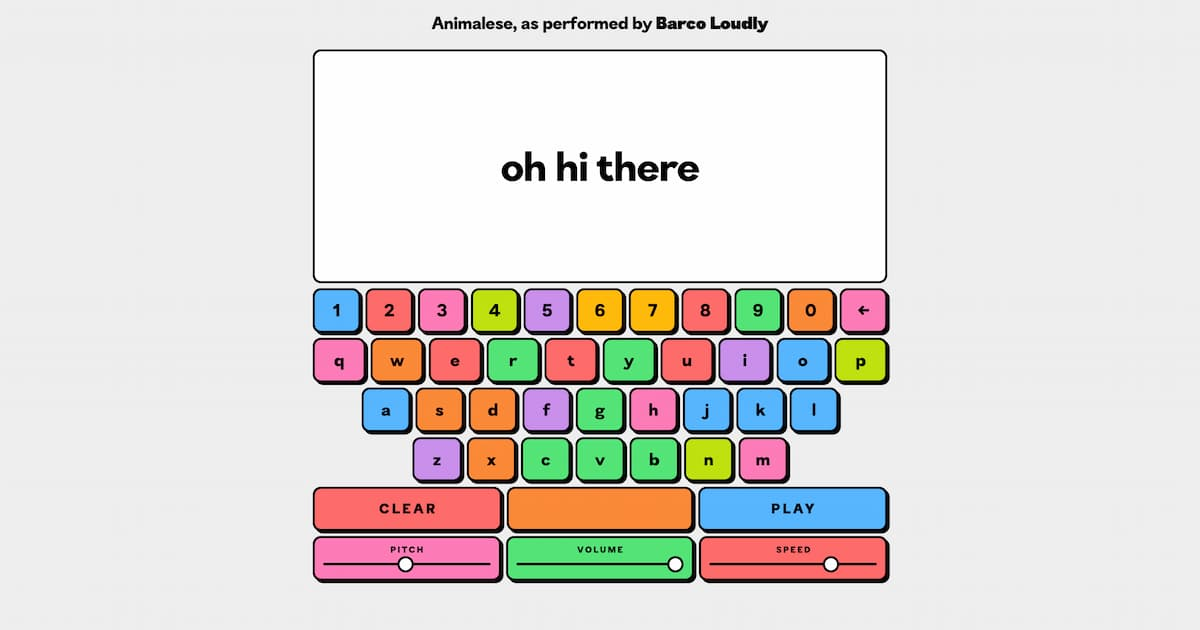
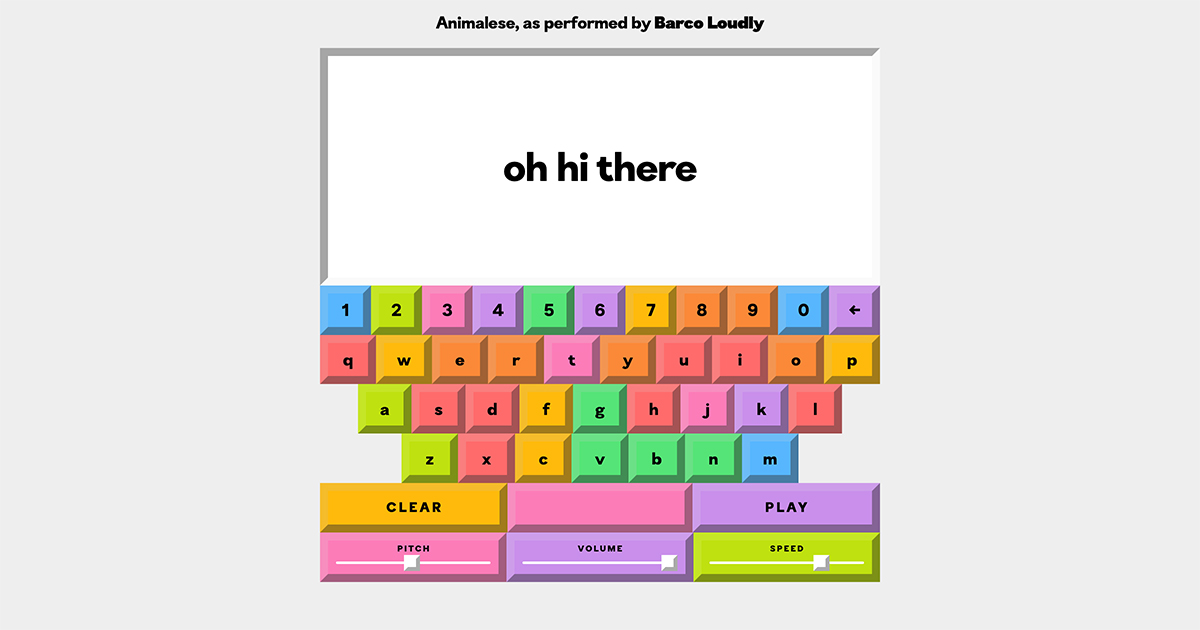
small visual refresh

Changed region(s): [[0.2467, 0.0302, 0.74, 0.9349], [0.4008, 0.2413, 0.5858, 0.3016]]

diff --git a/style.css b/style.css
@@ -43,7 +43,6 @@ button {
 	display: grid;
 	grid-template-rows: minmax(0, 1fr) minmax(0, 1.25fr);
 	padding: 60px 10px;
-	gap: 6px;
 	max-width: 720px;
 	max-height: 800px;
 }
@@ -70,8 +69,7 @@ button {
 
 /* Screen */
 .screen {
-	border: 3px solid black;
-	border-radius: 10px;
+	border: 10px inset #fafafa;
 	background-color: white;
 	position: relative;
 	display: flex;
@@ -103,9 +101,7 @@ button {
 	align-items: center;
 	justify-content: center;
 	padding: 4px 10px 0 10px;
-	border: 3px solid black;
-	border-radius: 10px;
-	box-shadow: 3px 3px black;
+	border: 10px outset color-mix(in hsl, white 10%, var(--primary) 100%);
 	background-color: var(--primary);
 	min-height: 50px;
 }
@@ -122,7 +118,7 @@ button {
 .controls-group input {
 	cursor: pointer;
 	-webkit-appearance: none;
-	background: black;
+	background: white;
 	border-radius: 20px;
 	outline: none;
 	height: 3px;
@@ -133,16 +129,14 @@ button {
 	appearance: none;
 	width: 20px;
 	height: 20px;
-	border-radius: 50%;
 	background: white;
-	border: 3px solid black;
+	border: 5px outset white;
 	cursor: pointer;
 }
 .controls-group input::-moz-range-thumb {
 	width: 20px;
 	height: 20px;
-	border-radius: 50%;
-	border: 3px solid black;
+	border: 5px outset white;
 	background: white;
 	cursor: pointer;
 }
@@ -153,7 +147,6 @@ button {
 	width: 100%;
 	display: flex;
 	flex-direction: column;
-	gap: 6px;
 	text-transform: lowercase;
 }
 .keyboard-row {
@@ -161,7 +154,6 @@ button {
 	flex-basis: 40px;
 	min-height: 40px;
 	display: flex;
-	gap: 6px;
 }
 .keyboard-row button {
 	flex-grow: 1;
@@ -171,9 +163,7 @@ button {
 	font-size: clamp(10px, 3vw, 20px);
 	border: unset;
 	background-color: var(--primary);
-	border: 3px solid black;
-	border-radius: 10px;
-	box-shadow: 3px 3px black;
+	border: 10px outset color-mix(in hsl, white 10%, var(--primary) 100%);
 	color: black;
 	cursor: pointer;
 	line-height: 1em;
@@ -182,15 +172,15 @@ button {
 	text-transform: inherit;
 }
 .keyboard-row button[data-active="1"] {
-	background-color: white;
-	transform: scale(0.95);
+	filter: brightness(90%);
+	border: 10px inset color-mix(in hsl, white 10%, var(--primary) 100%);
 }
 .keyboard-row button:hover {
-	background-color: white;
-	transform: scale(1.02);
+	filter: brightness(110%);
 }
 .keyboard-row button:active {
-	transform: scale(0.95);
+	filter: brightness(90%);
+	border: 10px inset color-mix(in hsl, white 10%, var(--primary) 100%);
 }
 .keyboard-row-spacer {
 	flex-grow: 1;
@@ -254,14 +244,11 @@ button {
 	justify-content: center;
 }
 .player-content .letter {
-	/* margin: 3px; */
 	color: black;
 	background-color: var(--primary);
-	border-radius: 10px;
 	padding: max(.5vw, 5px);
 	line-height: 1em;
-	border: 3px solid black;
-	box-shadow: 3px 3px black;
+	border: 10px outset color-mix(in hsl, white 10%, var(--primary) 100%);
 	overflow: hidden;
 }
 
@@ -273,24 +260,17 @@ button {
 }
 @media (max-width: 450px) {
 	.container {
-		padding: 2px;
-		gap: 2px;
 		padding: unset;
 	}
 	.content {
-		padding: 40px 2px 2px 2px;
+		padding: 40px 0 0 0;
 		max-height: unset;
-		gap: 2px;
 	}
 	.screen {
-		box-shadow: unset;
-		border: 2px solid black;
-		border-radius: 4px;
+		border-width: 2px !important;
 	}
 	.controls-group {
-		border: 2px solid black;
-		box-shadow: unset;
-		border-radius: 4px;
+		border-width: 5px !important;
 	}
 	.controls-group label {
 		transform: translateY(-15px);
@@ -299,20 +279,15 @@ button {
 		height: 2px;
 	}
 	.controls-group input::-webkit-slider-thumb {
-		border: 2px solid black;
+		border-width: 2px !important;
 	}
 	.controls-group input::-moz-range-thumb {
-		border: 2px solid black;
-	}
-	.keyboard {
-		gap: 2px;
-	}
-	.keyboard-row {
-		gap: 2px;
+		border-width: 2px !important;
 	}
 	.keyboard-row button {
-		border: 2px solid black;
-		box-shadow: unset;
-		border-radius: 4px;
+		border-width: 5px !important;
+	}
+	.player-content .letter {
+		border-width: 5px !important;
 	}
 }
